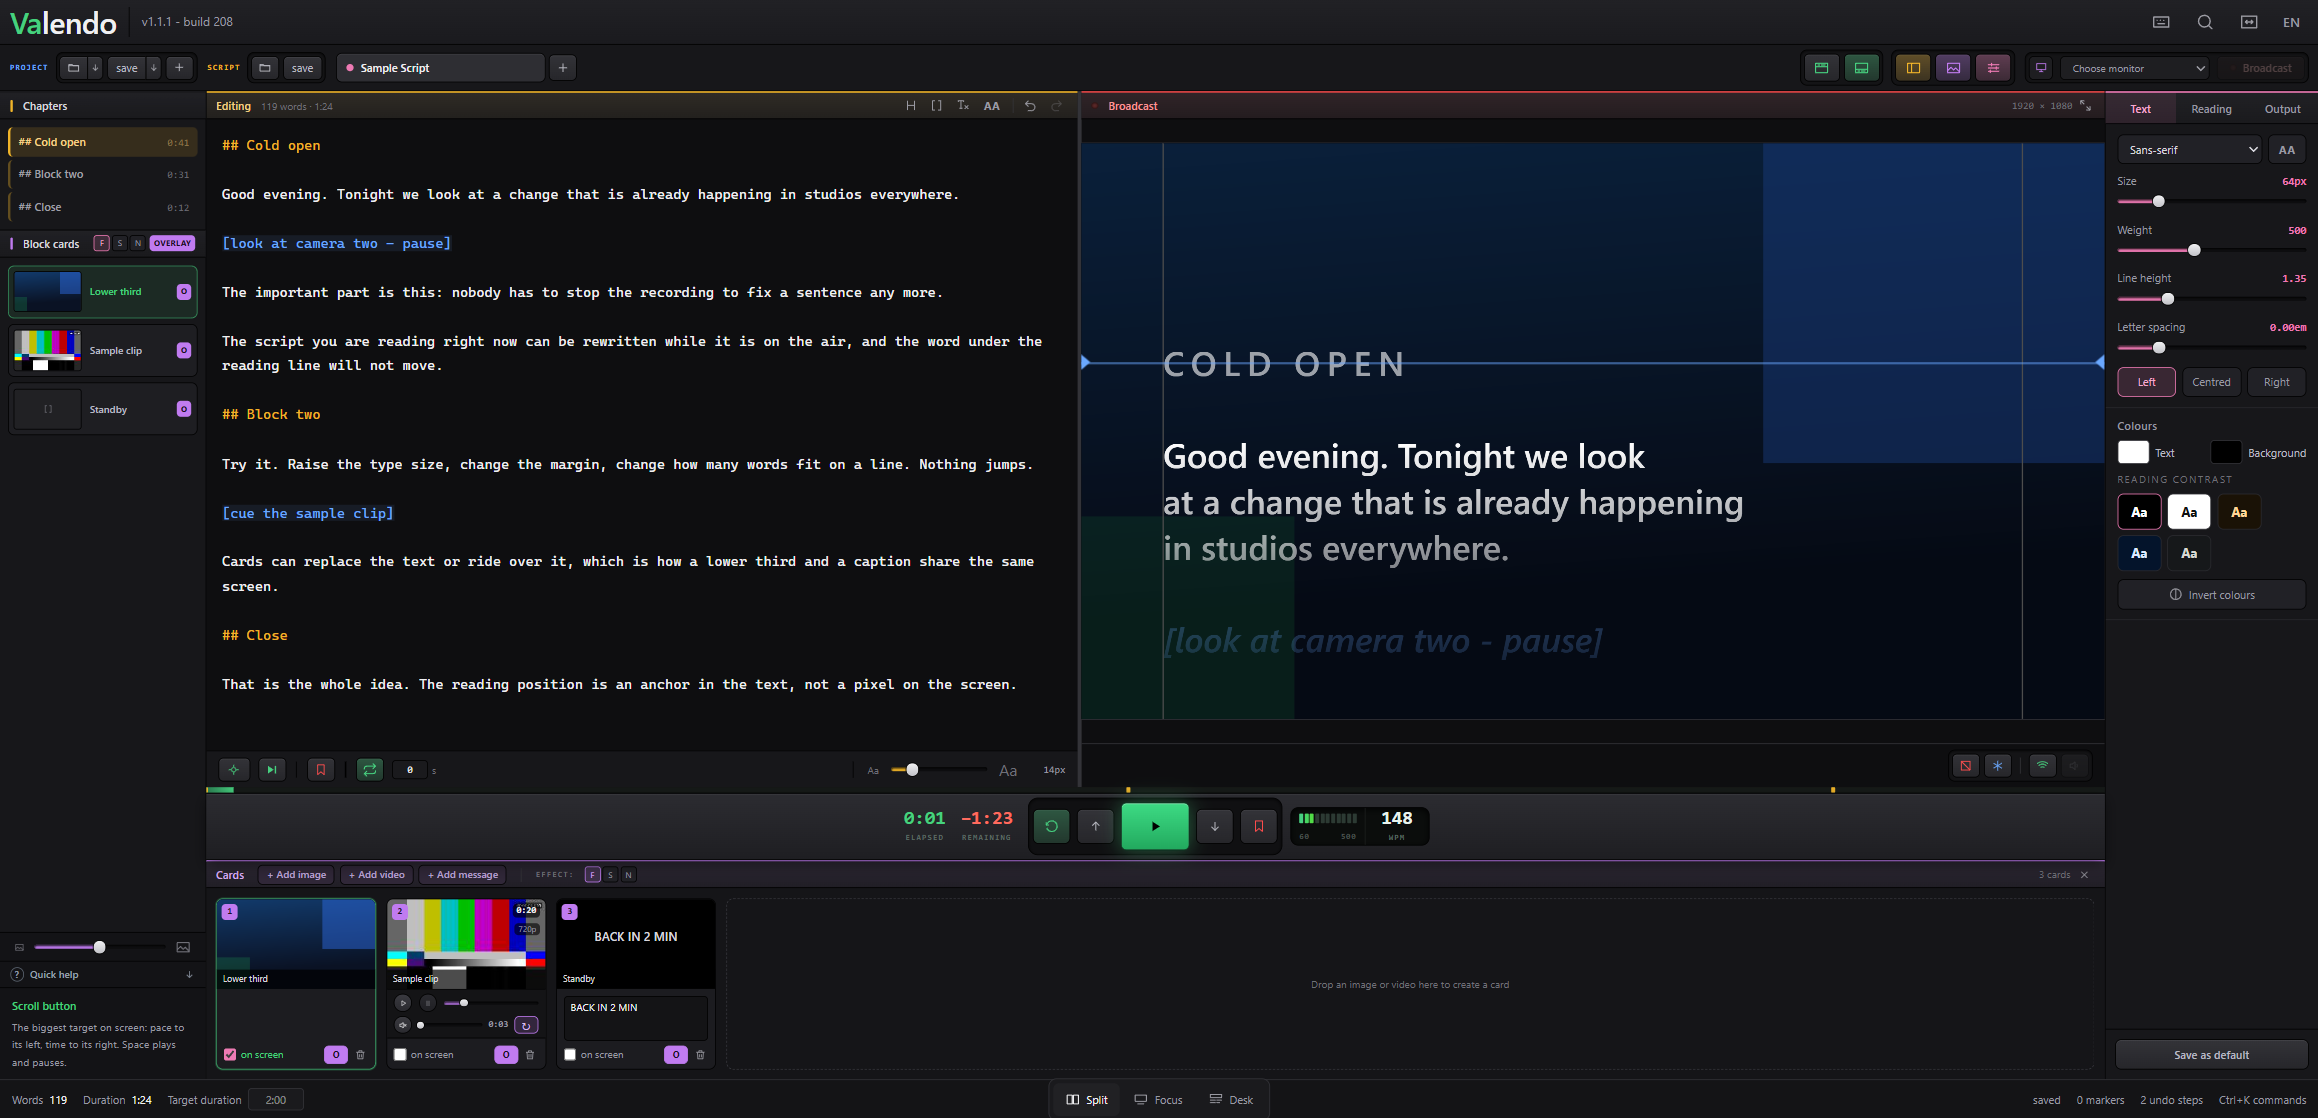
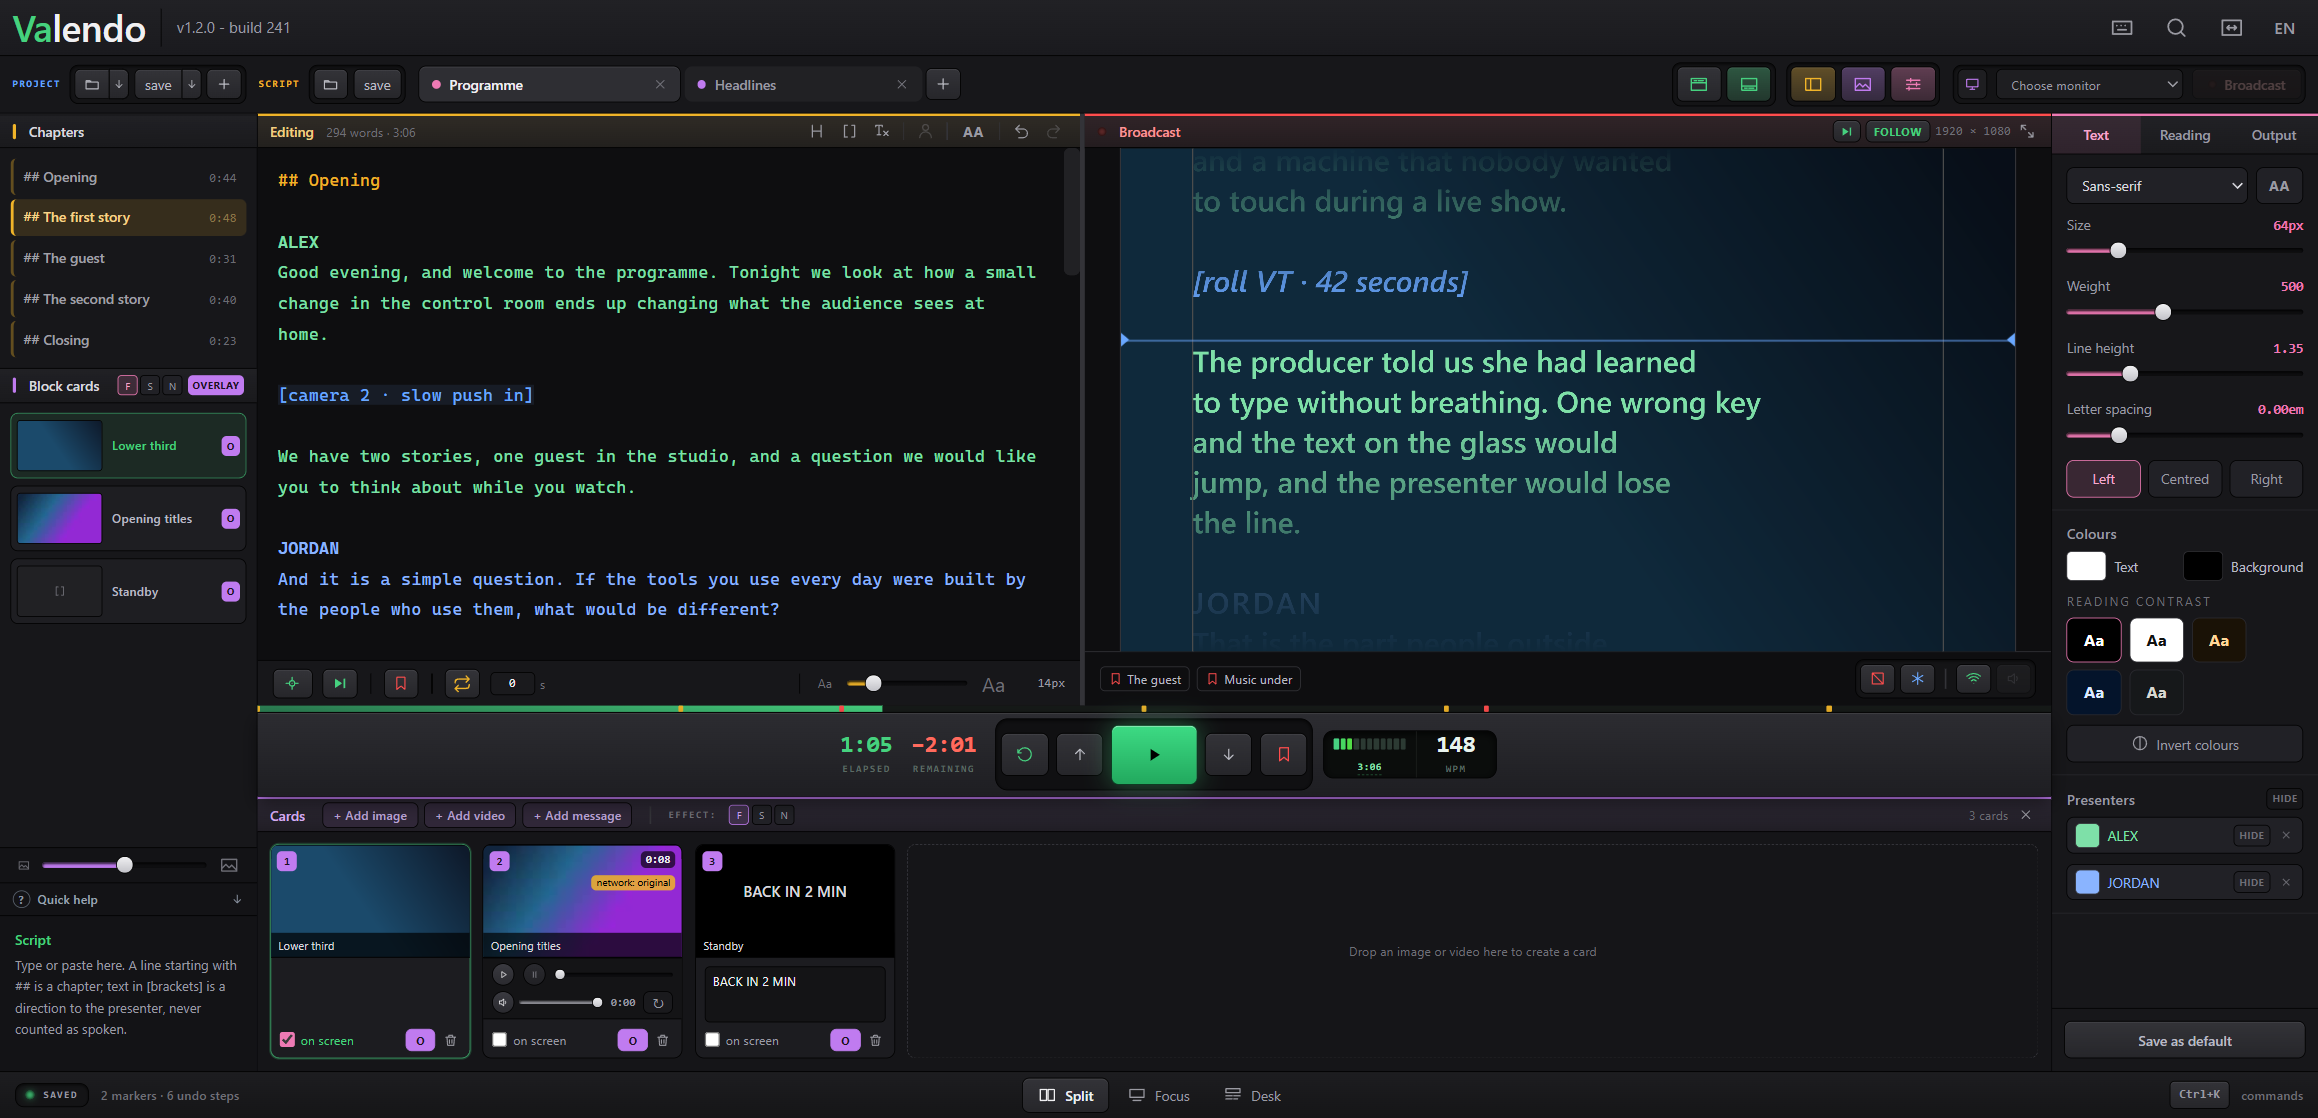
Site: apresentadores, SEGUIR e Ajuda rápida, e as telas refeitas
As 34 capturas trocam material de cliente por conteúdo inventado — um programa
com dois apresentadores, cartões de gradiente gerados aqui. Todas em 125% de
escala, com o transporte na régua e a barra de progresso preenchida, que é
como o operador de fato opera.

Seção nova entre "a parte que todo operador queria" e a rede: cada um lê na
sua cor, os nomes podem sair da saída levando o peso da régua junto, e os
quatro detalhes ao pé mostram os chips, o esconder global, o SEGUIR com o Go
To e a Ajuda rápida — quatro recursos que o site não sabia que existiam.

"Any phone on the wi-fi" vira "any device": quem abre a página pode ser um
tablet na bancada ou um notebook, e chamar todos de celular descrevia o caso
particular como se fosse a regra, justamente na frase que existe para explicar
o alcance do recurso.

Versão e download vão para a 1.2.0.

Feito com Claude Code

diff --git a/index.html b/index.html
@@ -226,6 +226,7 @@
     <nav>
       <a href="#suite">The suite</a>
       <a href="#live" class="hide-small">Live editing</a>
+      <a href="#presenters" class="hide-small">Presenters</a>
       <a href="#network" class="hide-small">Network</a>
       <a href="#install">Install</a>
       <a href="https://github.com/samaBR85/Valendo-TeleprompterSuite/wiki">Docs</a>
@@ -247,7 +248,7 @@
     <a class="btn" href="https://github.com/samaBR85/Valendo-TeleprompterSuite/wiki">Documentation</a>
   </div>
   <div class="chips">
-    <span class="chip" id="chip-version"><span class="dot"></span>Version <b>1.1.2</b></span>
+    <span class="chip" id="chip-version"><span class="dot"></span>Version <b>1.2.0</b></span>
     <span class="chip" id="chip-downloads"><span class="dot"></span><b>No release yet</b></span>
   </div>
   <figure class="shot-wide">
@@ -267,7 +268,7 @@
     <div class="grid">
       <div class="card">
         <h4><span class="dot" style="background:var(--go)"></span>The script</h4>
-        <p>Import txt, md, docx and pdf. Ten tabs, chapters, stage directions, markers, and undo that survives closing the app.</p>
+        <p>Import txt, md, docx and pdf. Ten tabs, chapters, stage directions, markers, presenters in their own colours, and undo that survives closing the app.</p>
       </div>
       <div class="card">
         <h4><span class="dot" style="background:var(--warn)"></span>Timing</h4>
@@ -283,11 +284,11 @@
       </div>
       <div class="card">
         <h4><span class="dot" style="background:var(--go)"></span>The network</h4>
-        <p>One switch and every phone on the wi-fi is a second prompter screen. No app to install.</p>
+        <p>One switch and any device on the wi-fi is a second prompter screen. Nothing to install.</p>
       </div>
       <div class="card">
         <h4><span class="dot" style="background:var(--link)"></span>The console</h4>
-        <p>Three working layouts, a command palette, remappable keys, interface zoom, six languages.</p>
+        <p>Three working layouts, a command palette, remappable keys, interface zoom, quick help on every key, six languages.</p>
       </div>
     </div>
     <figure class="strip">
@@ -349,10 +350,61 @@
   </div>
 </section>
 
+<section id="presenters">
+  <div class="wrap">
+    <div class="eyebrow">Two people on camera</div>
+    <h2>Everyone reads in their own colour</h2>
+    <div class="split">
+      <div>
+        <p>
+          Select a name in the script, press the person key, and everything below that name reads in
+          a colour of its own — in the editor, on the presenter's screen and on the network page.
+          The next name picks up where the last one left off.
+        </p>
+        <p>
+          Chapters and stage directions keep their own colours and <strong>do not break the run</strong>:
+          a direction in the middle of a speech does not hand the words to somebody else.
+        </p>
+        <p>
+          And the names can leave the output entirely. They leave the <strong>ruler</strong> with them,
+          so the reading does not crawl through the gap where a name used to be — what stays is the
+          colour, which is all the presenter needed the name for.
+        </p>
+      </div>
+      <figure>
+        <img src="shots/d23-presenters-hidden.png" alt="The presenter's screen with the names hidden: each speaker's lines in their own colour" />
+        <figcaption>The same script with the names suppressed. Nobody reads a name out loud by accident.</figcaption>
+      </figure>
+    </div>
+    <div class="details">
+      <div class="detail">
+        <div class="pic"><img src="shots/d20-presenters.png" alt="Presenter chips with a colour each, a hide key and a remove key" /></div>
+        <b>A chip each</b>
+        <span>Pick the colour, rename by double-click, and the script is rewritten with it.</span>
+      </div>
+      <div class="detail">
+        <div class="pic"><img src="shots/d26-presenters-global.png" alt="The global hide switch beside the Presenters title" /></div>
+        <b>Hide one, or all</b>
+        <span>A switch per presenter, and a global one beside the title.</span>
+      </div>
+      <div class="detail">
+        <div class="pic"><img src="shots/d21-follow.png" alt="The FOLLOW and Go To keys in the Broadcast header" /></div>
+        <b>FOLLOW, and Go&nbsp;To</b>
+        <span>The editor's caret trails the reading; Go To sends the reading to the caret.</span>
+      </div>
+      <div class="detail">
+        <div class="pic"><img src="shots/d22-quick-help.png" alt="The quick help box explaining whatever the mouse is pointing at" /></div>
+        <b>Quick help</b>
+        <span>Point at any key or slider and the box says what it does, and its shortcut.</span>
+      </div>
+    </div>
+  </div>
+</section>
+
 <section id="network">
   <div class="wrap">
     <div class="eyebrow">Local network</div>
-    <h2>Any phone on the wi-fi is a prompter screen</h2>
+    <h2>Any device on the wi-fi is a prompter screen</h2>
     <div class="split reverse">
       <div>
         <p>
@@ -618,7 +670,7 @@
       never applied:
     </p>
 <pre><code>curl -L -o ~/Downloads/Valendo.dmg \
-  https://github.com/samaBR85/Valendo-TeleprompterSuite/releases/latest/download/Valendo-1.1.2-arm64.dmg</code></pre>
+  https://github.com/samaBR85/Valendo-TeleprompterSuite/releases/latest/download/Valendo-1.2.0-arm64.dmg</code></pre>
     <p>
       Intel Macs are not shipped as a download, but the app builds and runs on them —
       see <a href="https://github.com/samaBR85/Valendo-TeleprompterSuite/wiki/Building-from-Source">Building from Source</a>.
@@ -656,7 +708,7 @@ npm run dev</code></pre>
 /*
  * Os dois chips do herói, preenchidos pela API pública do GitHub.
  *
- * O HTML já chega com um texto que é verdade — "Version 1.1.2" e "No release
+ * O HTML já chega com um texto que é verdade — "Version 1.2.0" e "No release
  * yet" — e o script só MELHORA o que está lá. Assim a página continua honesta
  * quando a API não responde: sem chave, ela permite 60 chamadas por hora por
  * endereço IP, e um visitante numa rede movimentada pode cair no limite.
